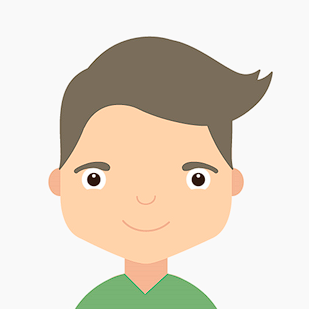
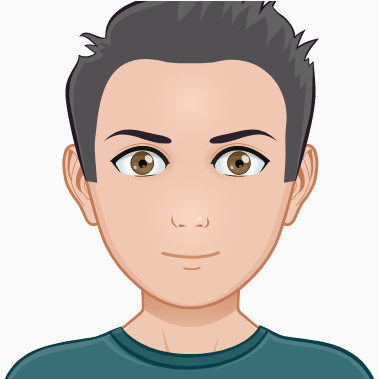
cambios en avatares y posicionamiento de cajas

diff --git a/estilos.css b/estilos.css
@@ -1,45 +1,90 @@
-*{
-    background-color: rgb(254, 254, 255);
-    text-align: center;
-}
-
-.cabecera {
-  display: inline-block;
-  width: 100px;
-  height: 100px;
+body {
+  display: flex;
+  flex-direction: column;
+  align-items: center;
+  justify-content: center;
+  height: 100%;
+  width: 80%;
+  margin: 0 auto;
 }
 
 h1 {
-    color: lightblue;
-    text-align: center;
-    font-size: 80px;
+  font-size: 60px;
+  color: rgb(0, 0, 0);
+  position: absolute;
+  top: 10px;
+  left: 280px;
+  margin: 100px;
+  text-shadow: #181818 2px 0 10px;
 }
 
-.logo{
-  height: 700px;
-  width: 700px;
-  border-radius: 50%;
-  z-index: 1;
+.cabecera {
+  position: relative;
+  width: 100%;
+  max-width: 800px;
+  margin-top: auto;
+}
+
+.logo {
   position: absolute;
-  top: 320px;
-  left: 960px;
+  left: 360px;
+  width: 390px;
+  height: 390px;
+  /*border-radius: 50%;*/
+  margin-left: 65px;
+}
+
+.banner {
+  display: block;
+  width: 1200px;
+  height: 400px;
+}
+
+.parracabecera {
+  font-size: 20px;
+  color: rgb(0, 0, 0);
+  position: absolute;
+  top: 150px;
+  left: 380px;
+  text-shadow: #181818 2px 0 10px;
+}
+
+.miembros{
+  width: 80%;
+  height: 100%;
+  display: flex;
+  flex-direction: row;
+}
+
+.miembro1 {
+  flex: 1;
+  display: flex;
+  flex-direction: column;
+  align-items: center;
+}
+
+.miembro2 {
+  flex: 1;
+  display: flex;
+  flex-direction: column;
+  align-items: center;
+}
+
+.miembro1 .jorge {
+  border-radius: 50%;
+  width: 250px;
+  height: 250px;
+  margin: 20px;
+}
+
+p {
+  font-size: 40px;
+  text-align: center;
 } 
 
-.banner{
-  position: absolute;
-  max-height:100%;
-  min-height:20%;
-  width:50%;
-  z-index: -1;
+.miembro2 .antonio {
+  border-radius: 50%;
+  width: 250px;
+  height: 250px;
+  margin: 20px;
 }
-/*
-#contenedorPadre {
-    position: relative;
-  }
-  #contenedorHijo {
-    position: absolute;
-    top: 50%;
-    left: 50%;
-    transform: translate(-50%, -50%);
-  }
-  */

diff --git a/index.html b/index.html
@@ -11,9 +11,21 @@
     
    <h1>ANTOJO</h1>
    <div class="cabecera"> 
-        <img class="logo" src="/imagenes/Antojo-Logo.png">
-        <img class="banner" src="/imagenes/banner.jpg "> 
+    <img class="logo" src="/imagenes/Antojo-Logo.png">
+   </div>
+   <img class="banner" src="/imagenes/banner.jpg "> 
+   <p class="parracabecera">Despídete del estrés y dale la bienvenida a la felicidad</p>
+  
+   <div class="miembros">
+   <div class="miembro1">
+        <img class="jorge" src="/imagenes/avatar-jorge.png">
+        <p>JORGE</p>
     </div>
+   <div class="miembro2">
+        <img class="antonio" src="/imagenes/Antonio.jpg">
+        <p>ANTONIO</p>
+    </div>
+   </div>
 
 </body>
 </html>
